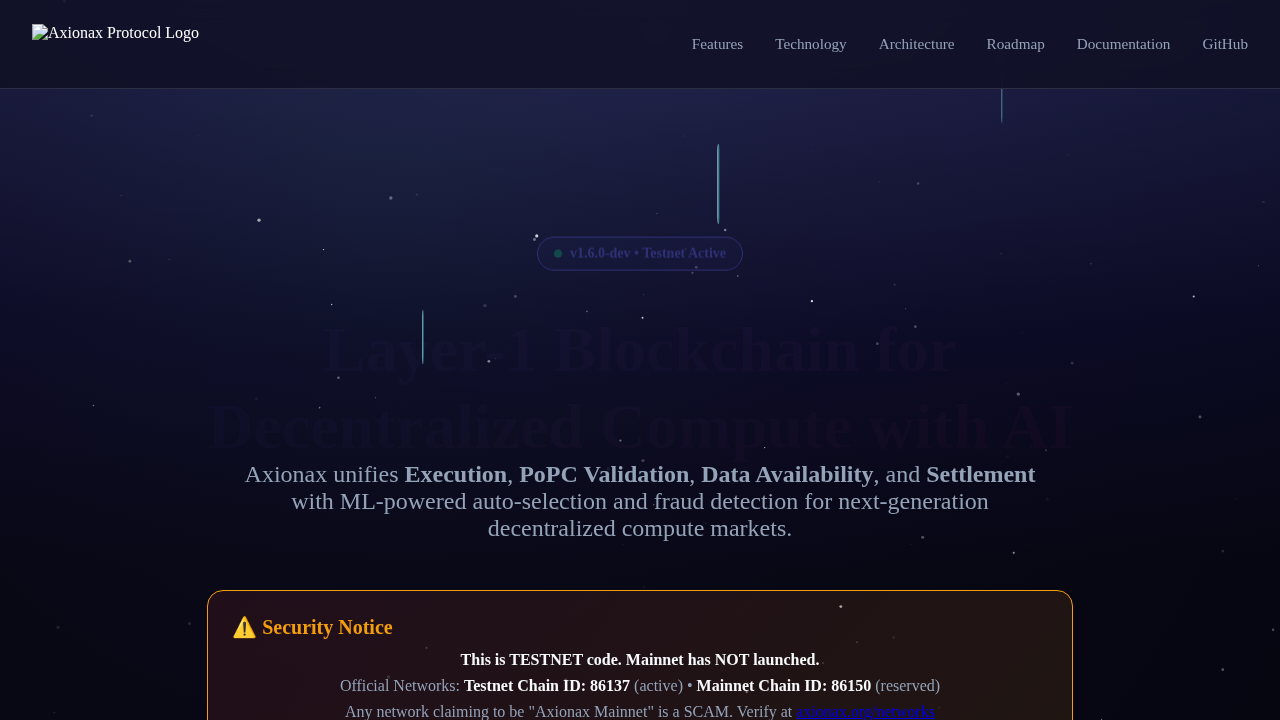
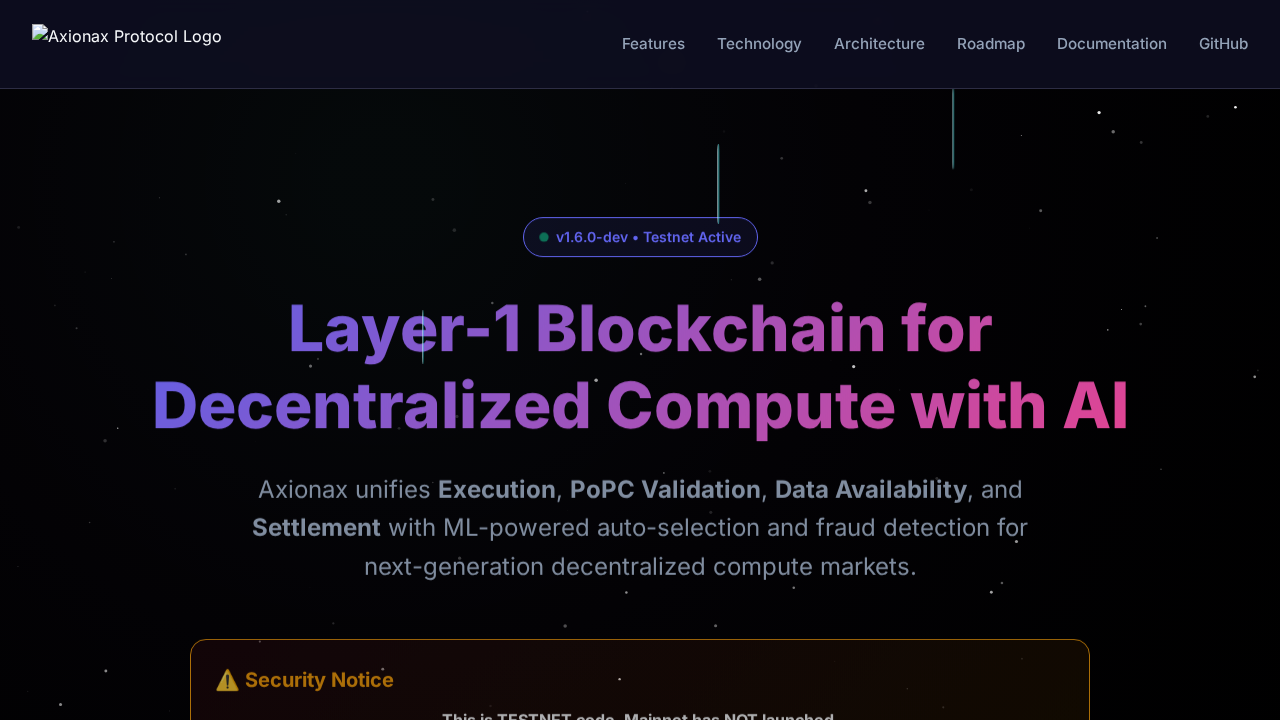
feat: Improve UI background of index.html
This commit improves the background of the main page (index.html) by replacing the complex multi-layered background with a cleaner, animated "noise" effect. This simplifies the CSS and provides a better visual experience.

diff --git a/docs/assets/css/styles.css b/docs/assets/css/styles.css
@@ -39,65 +39,29 @@
     }
 
     body {
-      background-image: var(--bg-space);
-      background-size: cover;
-      background-position: center;
-      background-attachment: fixed;
-      color: #ffffff;
+      color: var(--text-primary);
+      font-family: 'Inter', sans-serif;
+      line-height: 1.6;
       overflow-x: hidden;
-      position: relative;
-      min-height: 100vh;
+      background-color: #000;
     }
-    body::before {
-      content: '';
-      position: fixed;
-      top: 0;
-      left: 0;
-      width: 100%;
-      height: 100%;
-      background: radial-gradient(circle at 30% 30%, rgba(255, 255, 255, 0.1), transparent 70%),
-                  radial-gradient(circle at 70% 70%, rgba(255, 255, 255, 0.05), transparent 80%),
-                  radial-gradient(circle at 50% 50%, rgba(124, 226, 255, 0.2), rgba(156, 102, 255, 0.1), transparent 90%);
-      z-index: -1;
-      pointer-events: none;
+
+    .galaxy-overlay {
[1 lines of base64/hex data omitted]
+      animation: noise 2s steps(2) infinite;
     }
-    #space-canvas {
-      position: fixed;
-      top: 0;
-      left: 0;
-      width: 100%;
-      height: 100%;
-      z-index: -2;
-      pointer-events: none;
-    }
-    body::before {
-      /* Layer 1: Fine stars */
-      content: '';
-      pointer-events: none;
-      position: fixed; z-index: 0; inset: 0;
-      background:
-        repeating-radial-gradient(circle at 12% 9%, #fff6 0 0.75px, transparent 1.2px),
-        repeating-radial-gradient(circle at 52% 80%, #a5f2fc55 0 1.3px, transparent 1.8px),
-        repeating-radial-gradient(circle at 90% 13%, #fff3 0 0.5px, transparent 1.65px),
-        repeating-radial-gradient(circle at 30% 50%, #ffffff24 0 1.4px, transparent 2.2px),
-        repeating-radial-gradient(circle at 71% 70%, #cdfffc14 0 1.1px, transparent 2.1px);
-      background-blend-mode: lighten;
-      opacity: 0.87;
-      background-size: 700px 700px, 870px 660px, 1200px 1300px, 1420px 900px, 900px 1550px;
-      mix-blend-mode: lighten;
-    }
-    body::after {
-      /* Layer 2: Nebula glow soft clouds */
-      content: '';
-      position: fixed; z-index: 0; inset: 0; pointer-events: none;
-      background:
-        radial-gradient(circle at 60% 15%, #7266fb22 0, #14123500 60%),
-        radial-gradient(ellipse 45% 22% at 16% 25%, #e78cff30 0, #29184400 80%),
-        radial-gradient(circle 350px at 80% 82%, #a8ffe786 0, #00fff300 100%),
-        radial-gradient(circle 180px at 74% 10%, #fffdef18 0, #0c0c2e00 75%);
-      opacity: 0.54;
-      filter: blur(3px);
-      mix-blend-mode: lighten;
+
+    @keyframes noise {
+      0%, 100% { background-position: 0 0; }
+      10% { background-position: -5% -10%; }
+      20% { background-position: -15% 5%; }
+      30% { background-position: 7% -25%; }
+      40% { background-position: 20% 25%; }
+      50% { background-position: -25% 10%; }
+      60% { background-position: 15% 5%; }
+      70% { background-position: 0% 15%; }
+      80% { background-position: 25% 35%; }
+      90% { background-position: -10% 10%; }
     }
     .shooting-star {
       position: fixed; z-index: 2; pointer-events: none;

diff --git a/verify_index_page.py b/verify_index_page.py
@@ -1,3 +1,4 @@
+
 import asyncio
 from playwright.async_api import async_playwright
 
@@ -5,12 +6,10 @@ async def main():
     async with async_playwright() as p:
         browser = await p.chromium.launch()
         page = await browser.new_page()
-        # Construct the file path relative to the current working directory
-        import os
-        file_path = "file://" + os.path.abspath("docs/index.html")
-        await page.goto(file_path)
-        await page.screenshot(path="screenshot.png")
+        await page.goto(f'file://{os.getcwd()}/docs/index.html')
+        await page.screenshot(path='screenshot.png')
         await browser.close()
 
-if __name__ == "__main__":
+if __name__ == '__main__':
+    import os
     asyncio.run(main())
